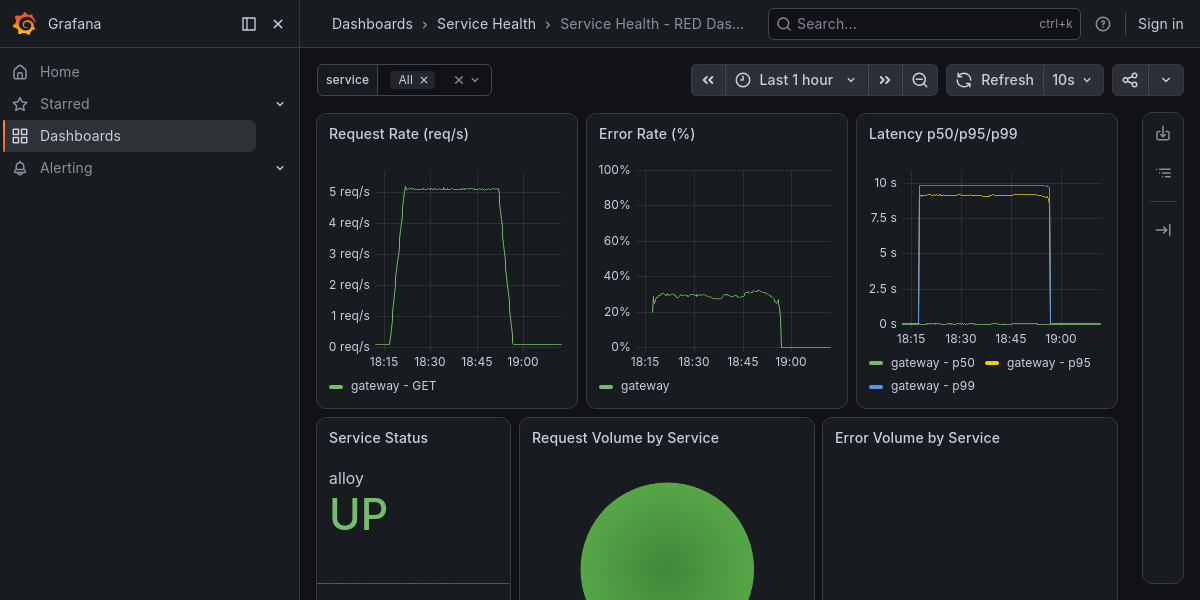
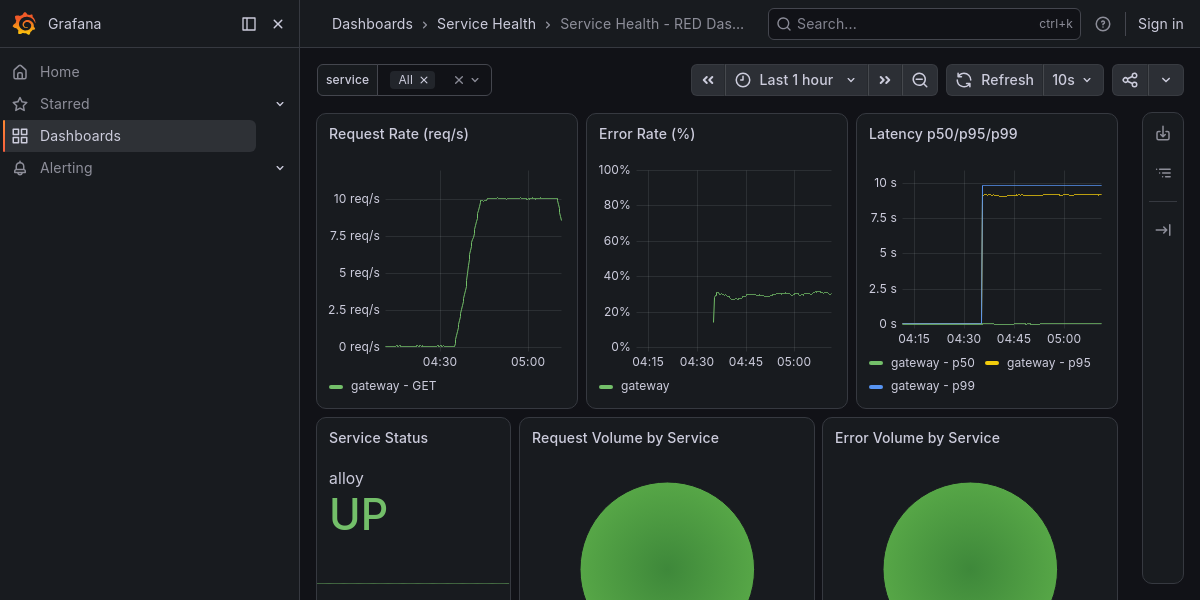
fix: capture-screenshots.py orchestrator + fix 30m Slow Window query
- Add tools/capture-screenshots.py: starts fault injector, waits, captures
  screenshots WHILE injector is still running, then stops it
- Fix 30m Slow Window: slo:current_burn_rate:ratio{sloth_window='30m'} →
  slo:sli_error:ratio_rate30m (Sloth doesn't generate current_burn_rate
  for the 30m window)
- Final screenshots captured during 30min active burn
- Test with 2min burn verified script works correctly

diff --git a/tools/capture-screenshots.py b/tools/capture-screenshots.py
@@ -1,0 +1,176 @@
+"""Capture dashboard screenshots during active fault injection.
+
+Orchestrates the full sequence:
+  1. Start fault injector in background
+  2. Wait for burn to stabilize
+  3. Capture screenshots WHILE fault injector is still running
+  4. Stop fault injector
+
+This ensures SLO stat panels show active burn, not recovery.
+
+Usage:
+  python tools/capture-screenshots.py                          # defaults: 30min burn, 1200x600
+  python tools/capture-screenshots.py --burn-minutes 15       # shorter burn for testing
+  python tools/capture-screenshots.py --dry-run                # print commands without executing
+"""
+import argparse
+import os
+import signal
+import subprocess
+import sys
+import time
+import urllib.request
+import urllib.error
+
+SCRIPT_DIR = os.path.dirname(os.path.abspath(__file__))
+REPO_ROOT = os.path.dirname(SCRIPT_DIR)
+FAULT_INJECTOR = os.path.join(SCRIPT_DIR, "fault-injector.py")
+
+GRAFANA_URL = os.environ.get("GRAFANA_URL", "http://localhost:3000")
+GRAFANA_USER = os.environ.get("GRAFANA_USER", "admin")
+GRAFANA_PASS = os.environ.get("GRAFANA_PASS", "admin")
+
+DASHBOARDS = [
+    ("slo-burn-rate", "docs/screenshots/slo-burn-rate-active-burn.png"),
+    ("service-health-red", "docs/screenshots/service-health-red-active-burn.png"),
+    ("system-overview", "docs/screenshots/system-overview-active-burn.png"),
+]
+
+
+def wait_for_grafana(timeout=60):
+    """Wait until Grafana is responding."""
+    print("  Waiting for Grafana...", end="", flush=True)
+    start = time.time()
+    while time.time() - start < timeout:
+        try:
+            req = urllib.request.Request(f"{GRAFANA_URL}/api/health")
+            with urllib.request.urlopen(req, timeout=5) as resp:
+                if resp.status == 200:
+                    print(" OK")
+                    return True
+        except (urllib.error.URLError, OSError):
+            pass
+        time.sleep(2)
+    print(" TIMEOUT")
+    return False
+
+
+def capture_screenshot(dashboard_uid, output_path, width=1200, height=600, time_range="now-1h"):
+    """Capture a single dashboard screenshot via Grafana Image Renderer."""
+    render_url = (
+        f"{GRAFANA_URL}/render/d/{dashboard_uid}"
+        f"?orgId=1&from={time_range.split(' ')[0]}&to=now"
+        f"&width={width}&height={height}"
+    )
+
+    # Use basic auth via urllib
+    password_mgr = urllib.request.HTTPPasswordMgrWithDefaultRealm()
+    password_mgr.add_password(None, GRAFANA_URL, GRAFANA_USER, GRAFANA_PASS)
+    auth_handler = urllib.request.HTTPBasicAuthHandler(password_mgr)
+    opener = urllib.request.build_opener(auth_handler)
+
+    abs_output = os.path.join(REPO_ROOT, output_path)
+    os.makedirs(os.path.dirname(abs_output), exist_ok=True)
+
+    try:
+        req = urllib.request.Request(render_url)
+        with opener.open(req, timeout=60) as resp:
+            data = resp.read()
+            with open(abs_output, "wb") as f:
+                f.write(data)
+            print(f"    {output_path} ({len(data)} bytes)")
+            return True
+    except Exception as e:
+        print(f"    {output_path} FAILED: {e}")
+        return False
+
+
+def main():
+    parser = argparse.ArgumentParser(description=__doc__, formatter_class=argparse.RawDescriptionHelpFormatter)
+    parser.add_argument("--burn-minutes", type=int, default=30,
+                        help="How long to run fault injection before capturing (default: 30)")
+    parser.add_argument("--inject-rate", type=int, default=5,
+                        help="Fault injector request rate (default: 5)")
+    parser.add_argument("--error-ratio", type=float, default=0.3,
+                        help="Fault injector error ratio (default: 0.3)")
+    parser.add_argument("--width", type=int, default=1200, help="Screenshot width (default: 1200)")
+    parser.add_argument("--height", type=int, default=600, help="Screenshot height (default: 600)")
+    parser.add_argument("--time-range", default="now-1h", help="Dashboard time range (default: now-1h)")
+    parser.add_argument("--dry-run", action="store_true", help="Print commands without executing")
+    args = parser.parse_args()
+
+    print(f"\n  Observatory Screenshot Capture")
+    print(f"  {'='*40}")
+    print(f"  Burn duration:  {args.burn_minutes} minutes")
+    print(f"  Inject rate:    {args.inject_rate} req/s")
+    print(f"  Error ratio:    {args.error_ratio}")
+    print(f"  Time range:     {args.time_range}")
+    print(f"  Screenshot:     {args.width}x{args.height}")
+    print()
+
+    if args.dry_run:
+        print("  DRY RUN — commands that would execute:")
+        print(f"    1. python {FAULT_INJECTOR} --duration {args.burn_minutes * 60} --rate {args.inject_rate} --error-ratio {args.error_ratio}")
+        print(f"    2. sleep {args.burn_minutes * 60}")
+        for uid, path in DASHBOARDS:
+            print(f"    3. capture {uid} -> {path}")
+        print(f"    4. kill fault-injector")
+        return 0
+
+    # Step 1: Start fault injector
+    print("  Step 1: Starting fault injector...")
+    inject_duration = args.burn_minutes * 60 + 300  # extra 5min buffer
+    inject_proc = subprocess.Popen(
+        [sys.executable, FAULT_INJECTOR,
+         "--duration", str(inject_duration),
+         "--rate", str(args.inject_rate),
+         "--error-ratio", str(args.error_ratio)],
+        cwd=REPO_ROOT,
+        stdout=subprocess.DEVNULL,
+        stderr=subprocess.DEVNULL,
+    )
+    print(f"    PID: {inject_proc.pid}")
+
+    # Step 2: Wait for burn to stabilize
+    wait_seconds = args.burn_minutes * 60
+    print(f"\n  Step 2: Waiting {args.burn_minutes} minutes for burn to stabilize...")
+    try:
+        for remaining in range(wait_seconds, 0, -60):
+            mins = remaining // 60
+            print(f"    {mins}m remaining...", flush=True)
+            time.sleep(min(60, remaining))
+    except KeyboardInterrupt:
+        print("\n  Interrupted!")
+        inject_proc.terminate()
+        inject_proc.wait(timeout=5)
+        return 1
+
+    # Step 3: Capture screenshots WHILE fault injector is still running
+    print(f"\n  Step 3: Capturing screenshots (fault injector PID {inject_proc.pid} still running)...")
+    if not wait_for_grafana():
+        inject_proc.terminate()
+        inject_proc.wait(timeout=5)
+        return 1
+
+    success = 0
+    for uid, path in DASHBOARDS:
+        if capture_screenshot(uid, path, args.width, args.height, args.time_range):
+            success += 1
+
+    # Step 4: Stop fault injector
+    print(f"\n  Step 4: Stopping fault injector (PID {inject_proc.pid})...")
+    inject_proc.terminate()
+    try:
+        inject_proc.wait(timeout=10)
+        print("    Stopped cleanly")
+    except subprocess.TimeoutExpired:
+        inject_proc.kill()
+        inject_proc.wait(timeout=5)
+        print("    Killed")
+
+    print(f"\n  Done: {success}/{len(DASHBOARDS)} screenshots captured")
+    return 0 if success == len(DASHBOARDS) else 1
+
+
+if __name__ == "__main__":
+    sys.exit(main())
